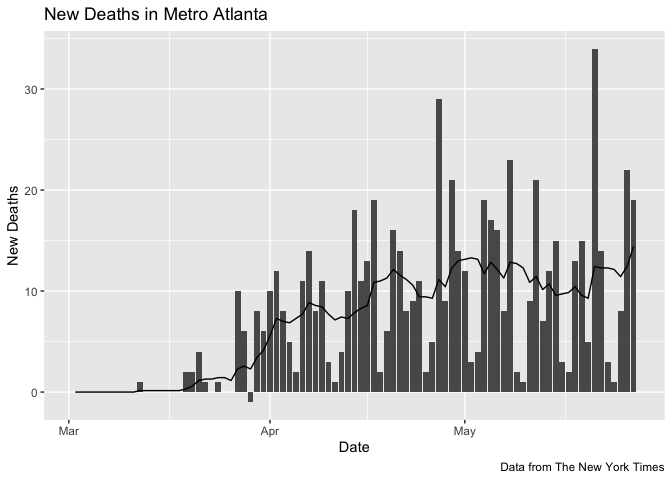
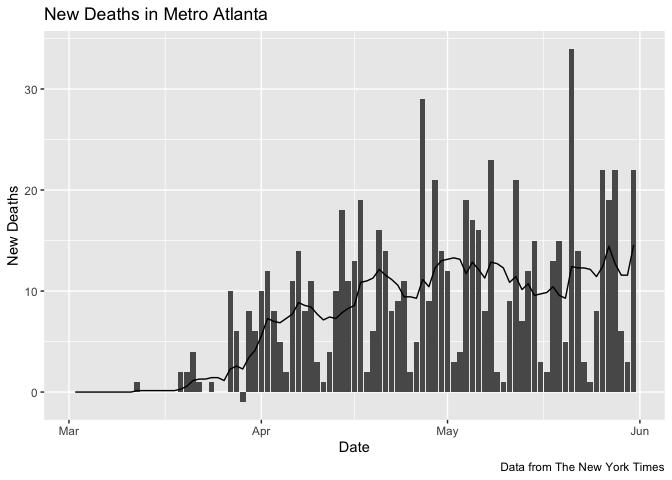
Updated data

diff --git a/Metro_Atlanta_COVID.md b/Metro_Atlanta_COVID.md
@@ -16,7 +16,7 @@ It’s hard to know how to interpret these numbers since there are major
 known unknowns. Neither confirmed cases nor deaths can be said to be
 reliable counts of the true numbers.
 
-Data current as of May 28, 2020.
+Data current as of June 01, 2020.
 
 # Metro Atlanta
 
